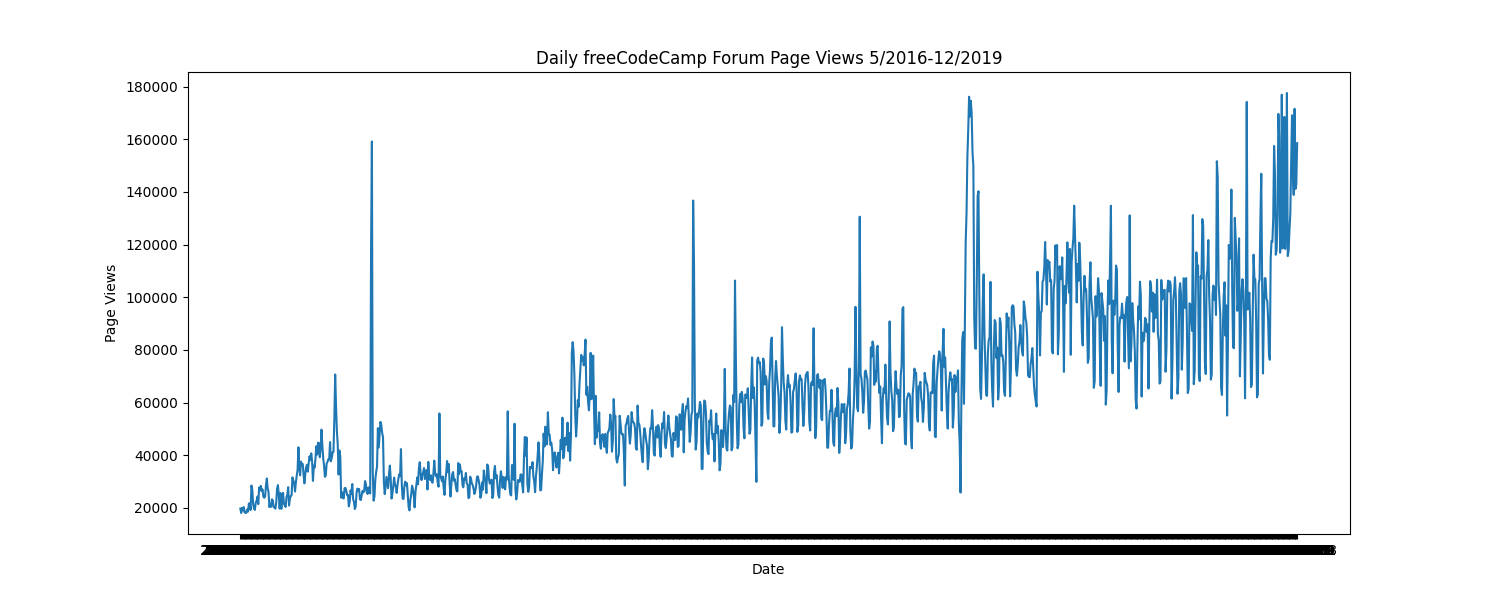
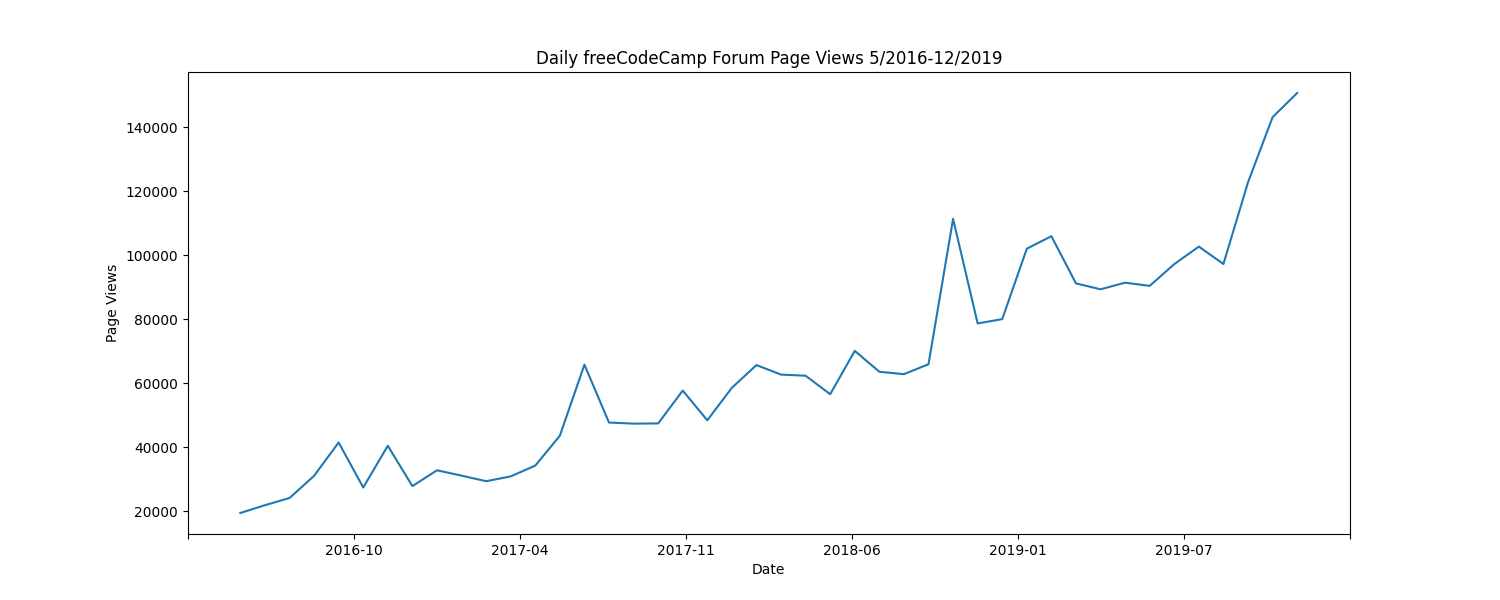
Fixed bug in the line plot script preventing dates from showing

diff --git a/time_series_visualizer.py b/time_series_visualizer.py
@@ -2,6 +2,7 @@ import matplotlib.pyplot as plt
 import pandas as pd
 import numpy as np
 import seaborn as sns
+from matplotlib import ticker
 from pandas.plotting import register_matplotlib_converters
 register_matplotlib_converters()
 
@@ -24,10 +25,16 @@ df = df.drop(removeIndexes, axis=0)
 # print(df)
 
 def draw_line_plot():
+    # Tweak date data
+    df_line = df
+    df_line["date"] = pd.to_datetime(df_line["date"])
+    df_line["date"] = df_line["date"].dt.strftime("%Y-%m")
+
     # Draw line plot
     fig, ax = plt.subplots(figsize=(15, 6))
-    ax = sns.lineplot(data=df, x="date", y="value")
+    ax = sns.lineplot(data=df_line, x="date", y="value", errorbar=None)
     ax.set(xlabel="Date", ylabel="Page Views", title="Daily freeCodeCamp Forum Page Views 5/2016-12/2019")
+    ax.xaxis.set_major_locator(ticker.LinearLocator(numticks=8))
     fig = ax.figure
 
     # Save image and return fig (don't change this part)
